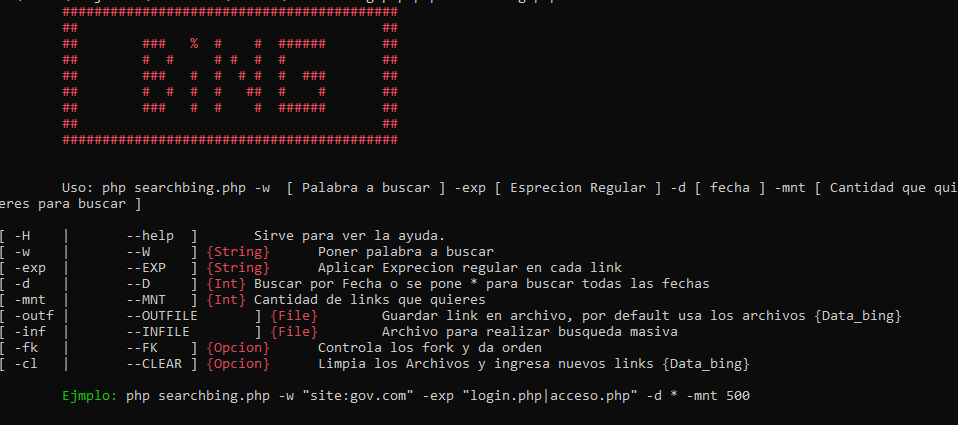
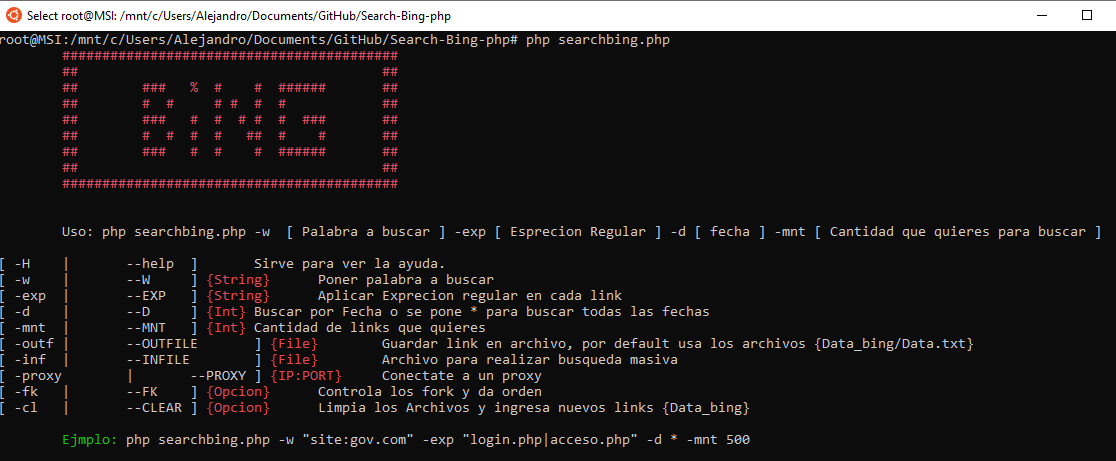
new

Changed region(s): [[0.0, 0.0, 1.0, 0.52], [0.0605, 0.5506, 0.9384, 0.9788], [0.0, 0.5506, 0.0605, 0.8871]]

diff --git a/searchbing.php b/searchbing.php
@@ -34,8 +34,9 @@ $p->setParam(	'-w',		'--W',		'String',	'Poner palabra a buscar',/*Required*/ fal
 $p->setParam(	'-exp',		'--EXP',	'String',	'Aplicar Exprecion regular en cada link',/*Required*/ false,/*Item de Array*/	'url');
 $p->setParam(	'-d',		'--D',		'Int',	'Buscar por Fecha o se pone * para buscar todas las fechas',/*Required*/ false,/*Item de Array*/	'url');
 $p->setParam(	'-mnt',		'--MNT',	'Int',	'Cantidad de links que quieres',/*Required*/ false,/*Item de Array*/	'url');
-$p->setParam(	'-outf',		'--OUTFILE',	'File',	'Guardar link en archivo, por default usa los archivos {Data_bing}',/*Required*/ false,/*Item de Array*/	'url');
+$p->setParam(	'-outf',		'--OUTFILE',	'File',	'Guardar link en archivo, por default usa los archivos {Data_bing/Data.txt}',/*Required*/ false,/*Item de Array*/	'url');
 $p->setParam(	'-inf',		'--INFILE',	'File',	'Archivo para realizar busqueda masiva',/*Required*/ false,/*Item de Array*/	'url');
+$p->setParam(	'-proxy',		'--PROXY',	'IP:PORT',	'Conectate a un proxy',/*Required*/ false,/*Item de Array*/	'url');
 $p->setParam(	'-fk',		'--FK',	'Opcion',	'Controla los fork y da orden',/*Required*/ false,/*Item de Array*/	'url');
 $p->setParam(	'-cl',		'--CLEAR',	'Opcion',	'Limpia los Archivos y ingresa nuevos links {Data_bing}',/*Required*/ false,/*Item de Array*/	'url');
 $p->setArgv($argv);
@@ -54,6 +55,7 @@ $cntLinks=15;
 $fecha="*";
 $rutaDatalink = "Data_bing/Data.txt";
 $expLinks;
+$proxy;
 
 // VERIFICANDO QUE SE INGRESEN PARAMETROS IMPORTANTES
 if( count($argv) == 1){
@@ -92,6 +94,7 @@ if( ($argvEXP = array_search("-exp",$argv)) ){
 
 
 
+
 if( ($argvD = array_search("-d",$argv)) ){
 	if ( @is_numeric($argv[($argvD+1)]) ) {
 		$fecha=$argv[($argvD+1)];
@@ -118,7 +121,7 @@ if (  array_search("-cl",$argv) ) {
 	if( $argvEXP )
 	{
 		guardadData("","w","Data_bing/Data_not_Filter.txt");
-		echo $txtcl->txtcolor("\t (*) SE LIMPIO EL TXT QUE NO APLICARON CON LA EXPRESION \n",3,"blanco","morado")."\n";
+		echo $txtcl->txtcolor("\t (*) SE LIMPIO EL TXT QUE NO APLICARON CON LA EXPRESION",3,"blanco","morado")."\n";
 	}
 
 
@@ -130,6 +133,13 @@ if(array_search("-fk",$argv)){
 }else{
 	$orderFork=false; // esto hace que se habilite el wait y espera 1 el primer proceso que continue para que se ejecute el segundo asi sisesivamente
 }
+
+
+if( ($argvProxy = array_search("-proxy",$argv)) ){
+	$proxy = $argv[($argvProxy+1)];
+	echo $txtcl->txtcolor("\t (*) Conectar a Proxy : ".$proxy,3,"blanco","morado")."\n";
+}
+
 
 
 
@@ -162,11 +172,18 @@ function guardadData($data="",$permiso="w",$ruta="Data_bing/Data.txt") // permis
 
 function consultBing($url,$cnt1,$idproces)
 {
+	global $proxy;
 	$txtcl = new Color_texto();
 	$mm = new facilcurl();
+
+	if(!empty($proxy))
+	{	
+		$mm->proxy($proxy);
+	}
+
+	
+
 	$mm->curl($url);
-
-
 
 	// VERIFICA SI SE HIZO LA CONSULTA A LA PAGINA
 	if ($pag = $mm->exe_curl()) 

diff --git a/class/class_curl/facilcurl.php b/class/class_curl/facilcurl.php
@@ -292,7 +292,7 @@ class facilcurl
 
 		curl_setopt($this->session, CURLOPT_PROXY, $ip); //El proxy HTTP para enviar peticiones a través de tunel. 	
 		if(isset($puerto)){curl_setopt($this->session, CURLOPT_PROXYPORT, $puerto);}// para asignar el puerto del proxy
-		curl_setopt($this->session, CURLOPT_HTTPPROXYTUNNEL, TRUE);//TRUE para usar un tunel a través de un proxy HTTP. 
+		//curl_setopt($this->session, CURLOPT_HTTPPROXYTUNNEL, TRUE);//TRUE para usar un tunel a través de un proxy HTTP. 
 		if(isset($usuario) and isset($password))
 		{
 			curl_setopt($this->session, CURLOPT_PROXYUSERPWD, "$usuario:$password");  //si el proxy nesesita contraseña
